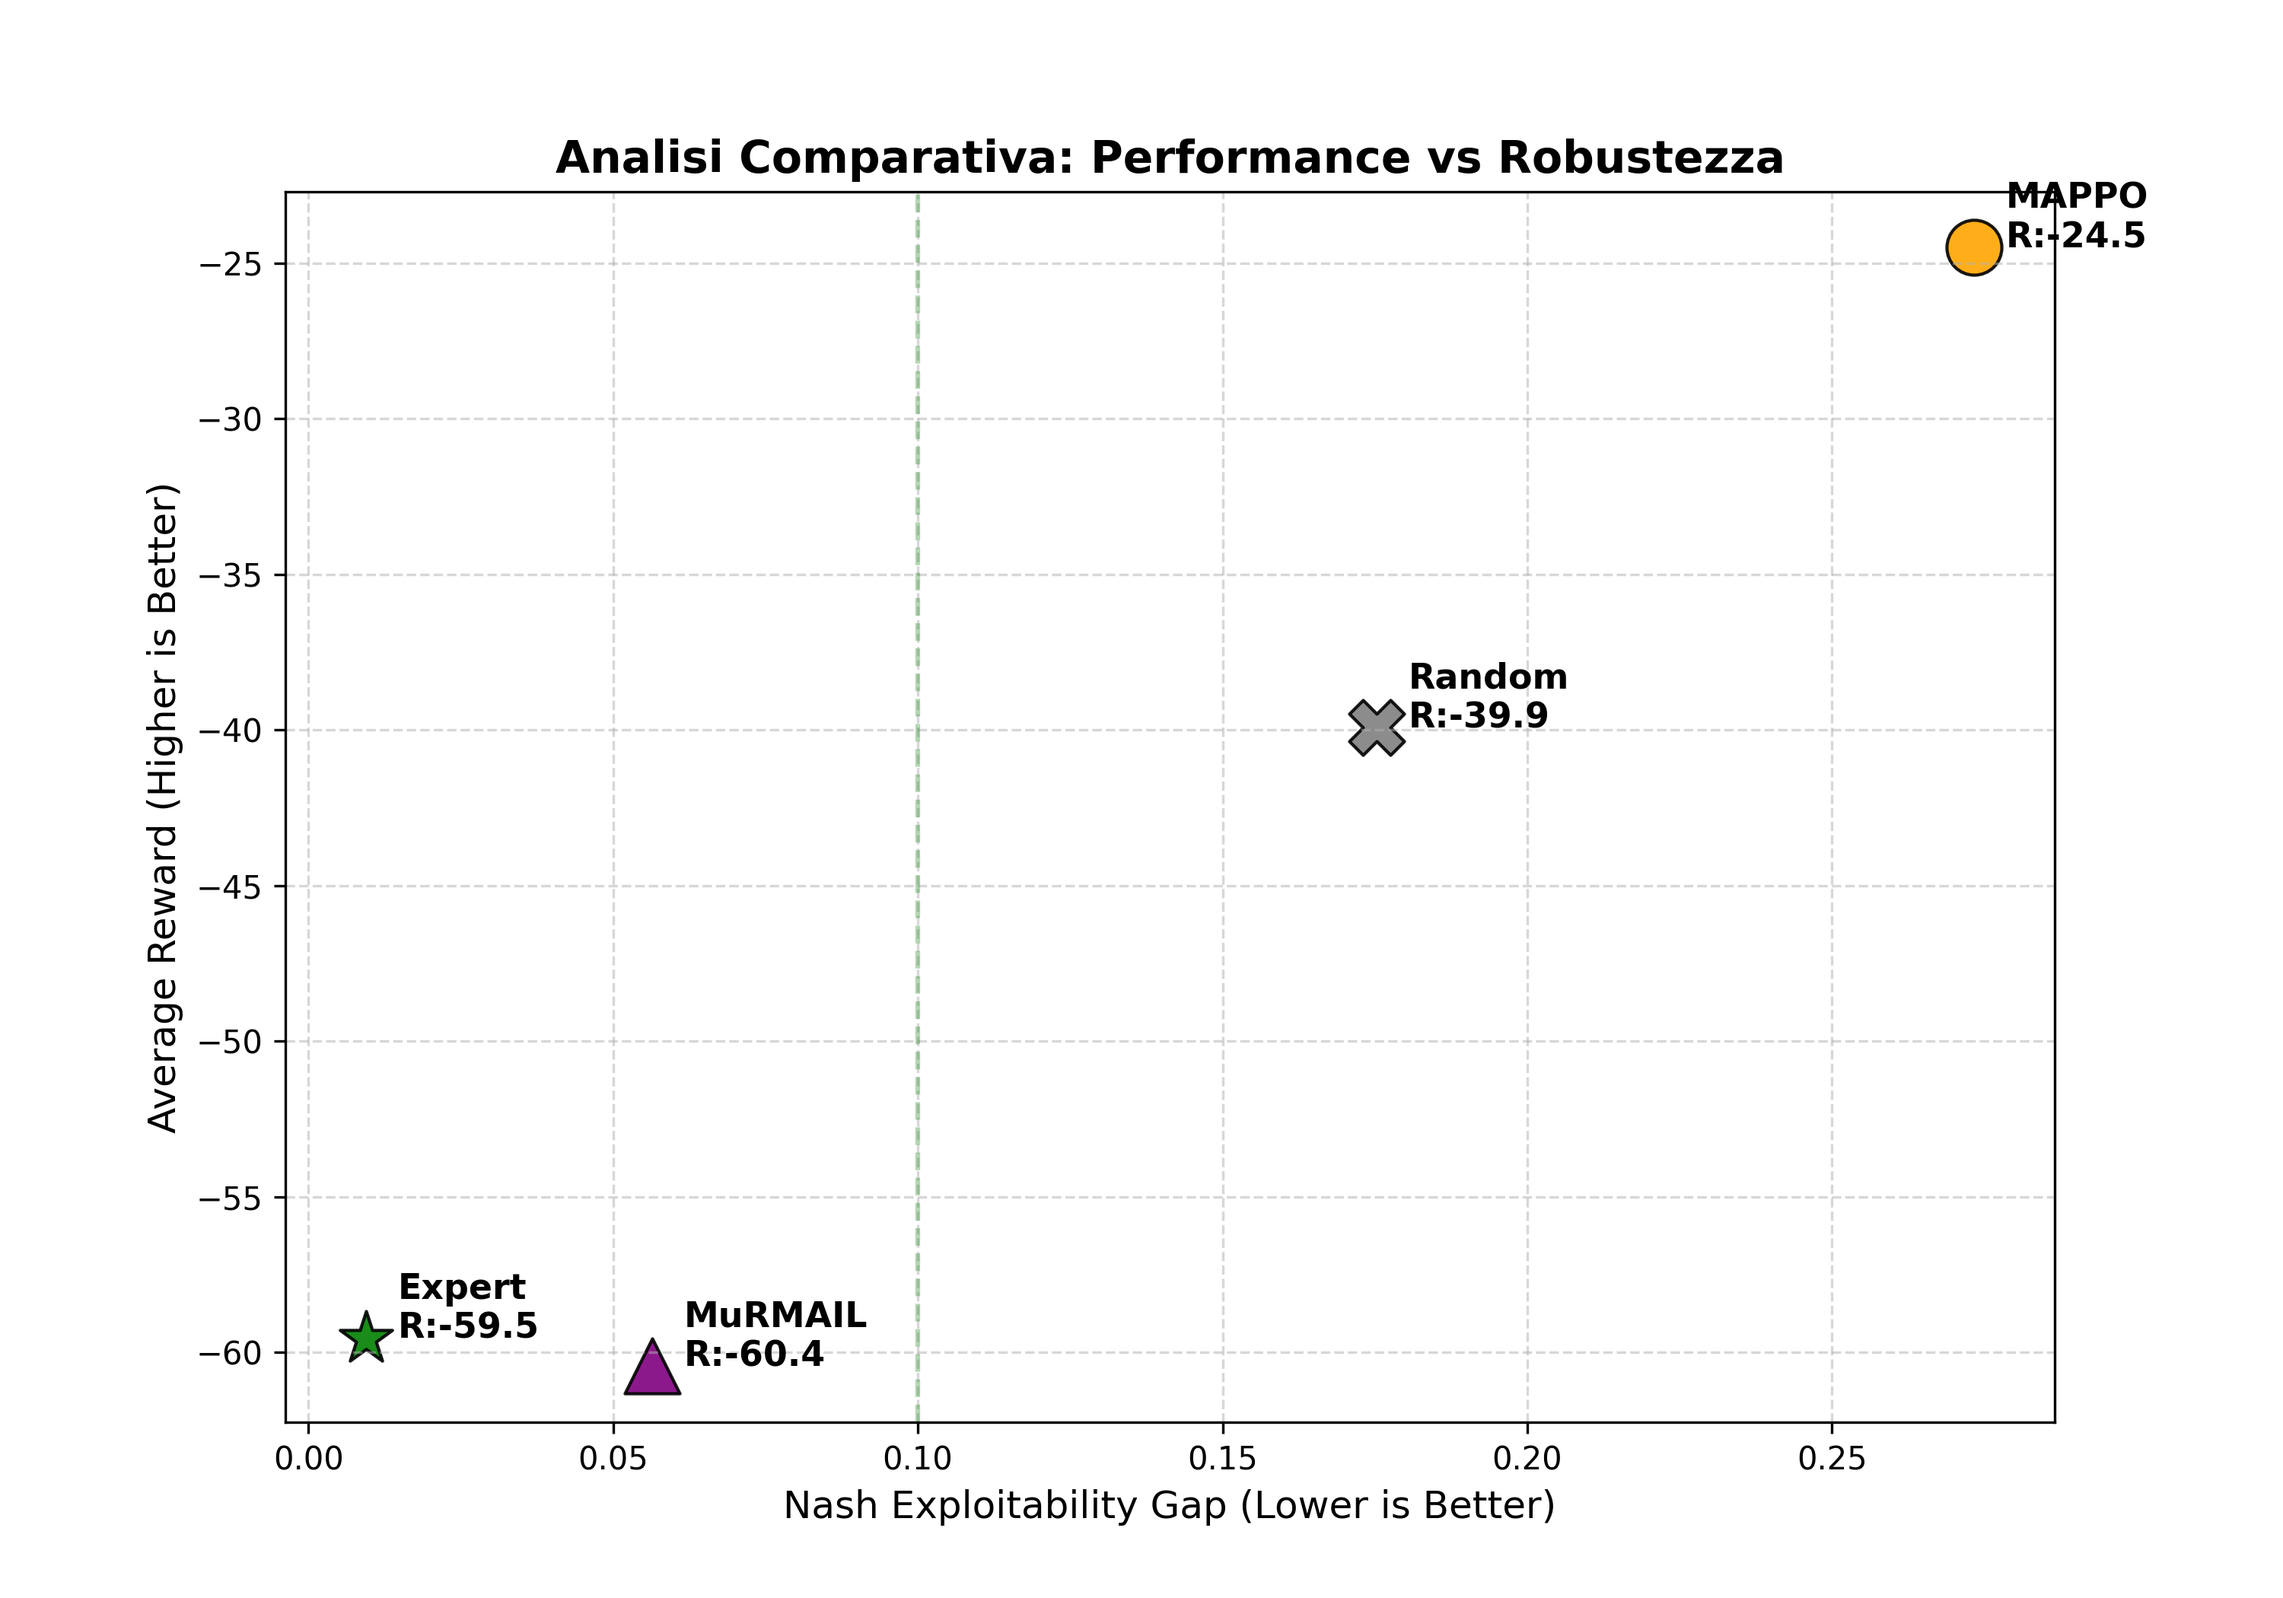
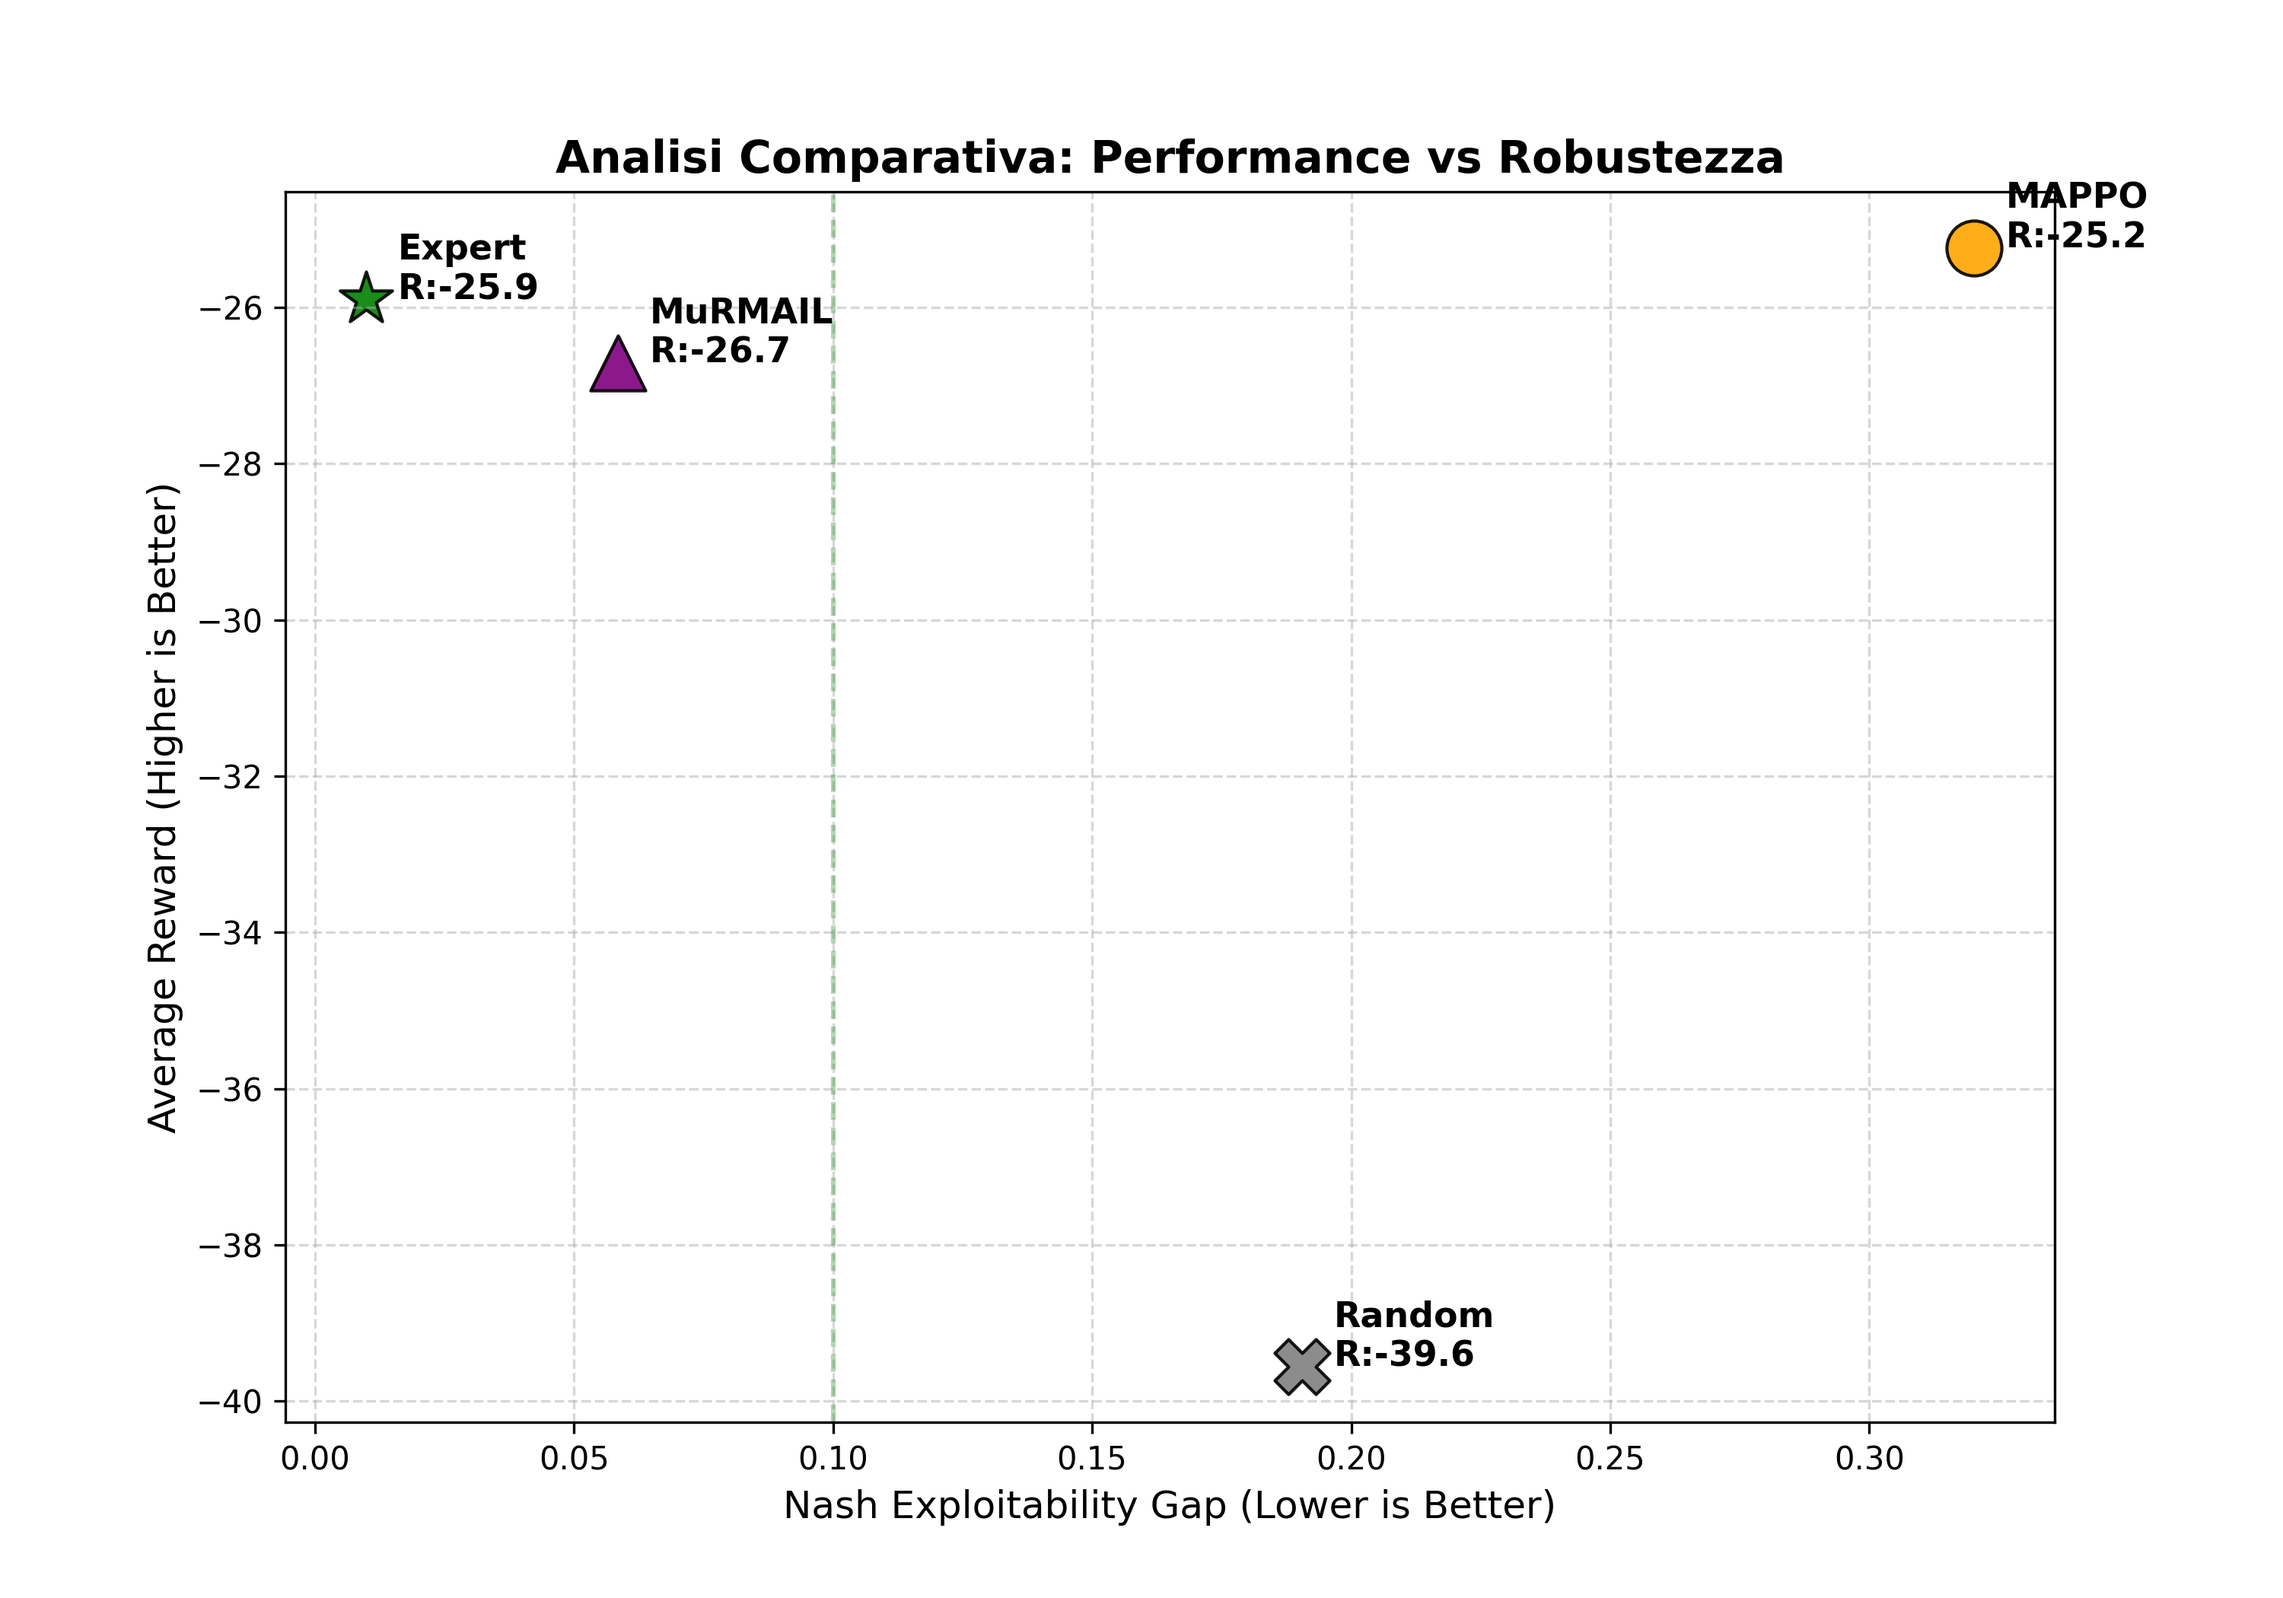
Update

diff --git a/README.md b/README.md
@@ -75,10 +75,10 @@ $$
 
 | Method      | Nash Gap ↓ | Avg Reward |
 | ----------- | ---------- | ---------- |
-| **Expert**  | **0.009**  | -59.5      |
-| **MuRMAIL** | **0.056**  | -60.4      |
-| Random      | 0.175      | -39.9      |
-| MAPPO       | **0.273**  | **-24.5**  |
+| **Expert**  | 0.009      | -25.90     |
+| **MuRMAIL** | 0.058      | -26.71     |
+| Random      | 0.191      | -39.55     |
+| MAPPO       | 0.320      | -25.24     |
 
 ### 🔍 Interpretation
 
